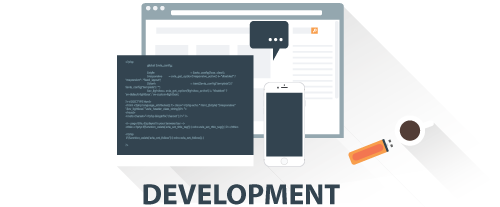
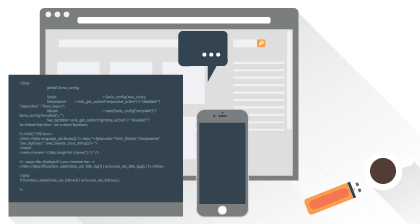
Areas of excel added

diff --git a/index.html b/index.html
@@ -62,17 +62,20 @@
 				background-color: #D7D5D5;
 			}
 			#ver-line-1 {
-				height: 27%;
+				height: 30%;
 			}
 			#ver-line-2 {
-				height: 50%;
-				margin-top: 11%;
+				position: absolute;
+				bottom: 0;
+				left: 50%;
+				margin-left: -0.5px;
+				height: 48%;
 			}
 			#ver-line-3 {
 				height: 15%;
 			}
 			#ver-line-4 {
-				height: 36%;
+				height: 28%;
 				margin-top: -10px;
 			}
 			#ver-line-5 {
@@ -87,13 +90,13 @@
 				background-color: #D7D5D5;
 			}
 			#logo {
-				width: 200px;
-				height: 70px;
+				width: 180px;
+				height: 43px;
 				position: absolute;
-				top: 30%;
+				top: 32%;
 				left: 50%;
-				margin-left: -100px;
-				background: url("logo1.png");
+				margin-left: -90px;
+				background: url("logo.png");
 				background-repeat: no-repeat;
   				background-size: 100% 100%;
   				/*-webkit-animation: spinner 4.2s infinite linear;		/* Chrome, Safari, Opera */*/
@@ -117,10 +120,10 @@
 				font-family: "Impact Comic Sans MS", cursive, sans-serif;
 				font-family: 'Source Sans Pro', sans-serif;*/
 				font-family: 'Segoe UI';
-				opacity: 0.9;
+				opacity: 0.5;
 				color: #fff;
 				position: absolute;
-				top: 40%;
+				top: 38%;
 				left: 50%;
 				margin-left: -220px;
 			}
@@ -128,55 +131,128 @@
 				position: relative;
 				z-index: 2;
 				width: 100%;
-				height: 850px;
+				height: 1280px;
 			}
 			#about-us {
-				width: 890px;
-				height: 270px;
-				margin-left: auto;
-				margin-right: auto;
+				width: 100%;
+				height: 392px;
+				/*margin-left: auto;
+				margin-right: auto;*/
 			}
 			#about-us-head {
-				margin-top: 35px;
+				margin-top: 32px 0;
+			}
+			#about-us-wrapper {
+				width: 800px;
+				height: 332px;
+				margin: 0 auto 0 auto;
 			}
 			#about-us-desc {
+				width: 448px;
+				position: relative;
+				float: left;
+				padding-right: 8px;
 				text-align: justify;
     			text-justify: inter-word;
     			/*font-family: "Comic Sans MS", cursive, sans-serif;*/
-    			font-family: 'Segoe UI';
+    			font-family: 'Segoe UI Verdana';
     			font-size: 14pt;
     			line-height: 34px;
     		}
+    		#rocket-img-container {
+    			width: 300px;
+    			height: 300px;
+    			position: relative;
+    			float: right;
+    		}
 			#areas-of-excel {
 				width: 100%;
-				height: 500px;
+				height: 960px;
 			}
-			#domains {
-				width: 990px;
-				height: 500px;
+			#domains-wrapper {
+				width: 848px;
+				height: 960px;
 				margin-top: 40px;
 				margin-left: auto;
 				margin-right: auto;
 			}
+
 			#development{
-				width: 300px;
-				height: 325px;
-				position: absolute;
+				width: 800px;
+				height: 240px;
+				margin: 32px auto 32px auto;
+			}
+
+			#dev-img-container {
+				position: relative;
 				float: left;
 			}
+
+			#dev-domains-container {
+				position: relative;
+				width: 300px;
+				float: right; 
+				right: 16px;
+			}
+
+			#dev-domains-container h2 {
+				margin: 0;
+				padding: 5px 0;
+				/*font-size: 16pt;*/
+				color: #BFBFBF;
+				font-family: 'Century Gothic';
+			}
+
 			#designing{
-				width: 300px;
-				height: 325px;
-				position: absolute;
-				float: left;
-				margin-left: 310px;
+				width: 832px;
+				height: 240px;
+				margin: 32px auto;
 			}
+			#des-img-container {
+				position: relative;
+				float: right;
+			}
+
+			#des-domains-container {
+				position: relative;
+				float: left; 
+				left: 32px;
+			}
+
+			#des-domains-container h2 {
+				margin: 0;
+				padding: 5px 0;
+				/*font-size: 16pt;*/
+				color: #BFBFBF;
+				font-family: 'Century Gothic';
+			}
+
 			#marketing{
-				width: 300px;
-				height: 325px;
-				position: absolute;
+				width: 832px;
+				height: 240px;
+				margin: 48px auto 0 auto;
+				/*position: absolute;*/
+				/*float: left;*/
+				/*margin-left: 620px;*/
+			}
+			#mar-img-container {
+				position: relative;
 				float: left;
-				margin-left: 620px;
+			}
+
+			#mar-domains-container {
+				position: relative;
+				width: 300px;
+				float: right; 
+				right: 16px;
+			}
+
+			#mar-domains-container h2 {
+				margin: 0;
+				padding: 5px 0;
+				/*font-size: 16pt;*/
+				color: #BFBFBF;
+				font-family: 'Century Gothic';
 			}
 			.center {
 				width: 615px;
@@ -189,7 +265,7 @@
 			#footer {
 				position: relative;
 				z-index: 1;
-				margin-top: -200px;
+				/*margin-top: -200px;*/
 				width: 100%;
 				height: 702px;
 				background-color: #0E7B3E;
@@ -325,7 +401,6 @@
 			       transform: rotate3d(0, 1, 0, 360deg);
 			    }
 			}
-
 		</style>
 		<script type="text/javascript"></script>
 	</head>
@@ -344,27 +419,59 @@
 		<div class="hr-line"></div>
 		<div id="content">
 			<div id="about-us">
-				<!-- <h2 class="center">About us</h2> -->
 				<h2 id="about-us-head" class="center">'Codistan' is the solution for all your virtual needs!</h2>
-				<p id="about-us-desc">
-					Codistan is a company that deals in website development, application development, game development and E-commerce commercial firms and brands. The company aims to holistically cover all areas of the virtual market by providing an integrated ecommerce solution to its customers. We aim to provide our customers with a 360 degree solution by catering to all aspects of the virtual market from coding to handling the aesthetics thereby providing them with a one stop panacea.
-				</p>
+				<div id="about-us-wrapper">
+					<p id="about-us-desc">
+						Codistan is a company that deals in website development, application development, game development and E-commerce commercial firms and brands. The company aims to holistically cover all areas of the virtual market by providing an integrated ecommerce solution to its customers. We aim to provide our customers with a 360 degree solution by catering to all aspects of the virtual market from coding to handling the aesthetics thereby providing them with a one stop panacea.
+					</p>
+					<div id="rocket-img-container">
+						<img src="rocket.png" width="300px" height="300px">
+					</div>
+				</div>
 			</div>
 			<div class="hr-line"></div>
 			<div class="hr-line"></div>
 			<div id="areas-of-excel">
 				<h2 class="center">Areas of Excel</h2>
-				<div id="domains">
+				<!-- <div id="domains-wrapper"> -->
 					<div id="development">
-						<img src="development.png" width="300px" height="124px">
+						<div id="dev-img-container">
+							<img src="development.png" width="384px" height="205px">
+						</div>
+						<div id="dev-domains-container">
+							<h2>Web Development</h2>
+							<h2>App Development</h2>
+							<h2>Game Development</h2>
+							<h2>Desktop Applications</h2>
+						</div>
 					</div>
+					<div class="hr-line"></div>
+					<div class="hr-line"></div>
 					<div id="designing">
-						<img src="designing.png" width="300px" height="124px">
+						<div id="des-domains-container">
+							<h2>Web Designing</h2>
+							<h2>Logo Designing</h2>
+							<h2>Illustration</h2>
+							<h2>Poster Designing</h2>
+						</div>
+						<div id="des-img-container">
+							<img src="designing.png" width="368px" height="221px">
+						</div>
 					</div>
+					<div class="hr-line"></div>
+					<div class="hr-line"></div>
 					<div id="marketing">
-						<img src="marketing.png" width="300px" height="124px">
+						<div id="mar-img-container">
+							<img src="marketing.png" width="459px" height="171px">
+						</div>
+						<div id="mar-domains-container">
+							<h2>Web Development</h2>
+							<h2>App Development</h2>
+							<h2>Game Development</h2>
+							<h2>Desktop Applications</h2>
+						</div>
 					</div>
-				</div>
+				<!-- </div> -->
 			</div>
 			<div class="hr-line"></div>
 			<div class="hr-line"></div>

diff --git a/initial.html b/initial.html
@@ -93,7 +93,7 @@
 				top: 20%;
 				left: 50%;
 				margin-left: -55px;
-				background: url("logo.png");
+				background: url("logo-initial.png");
 				background-repeat: no-repeat;
   				background-size: 100% 100%;
   				-webkit-animation: spinner 4.2s infinite linear;		/* Chrome, Safari, Opera */
